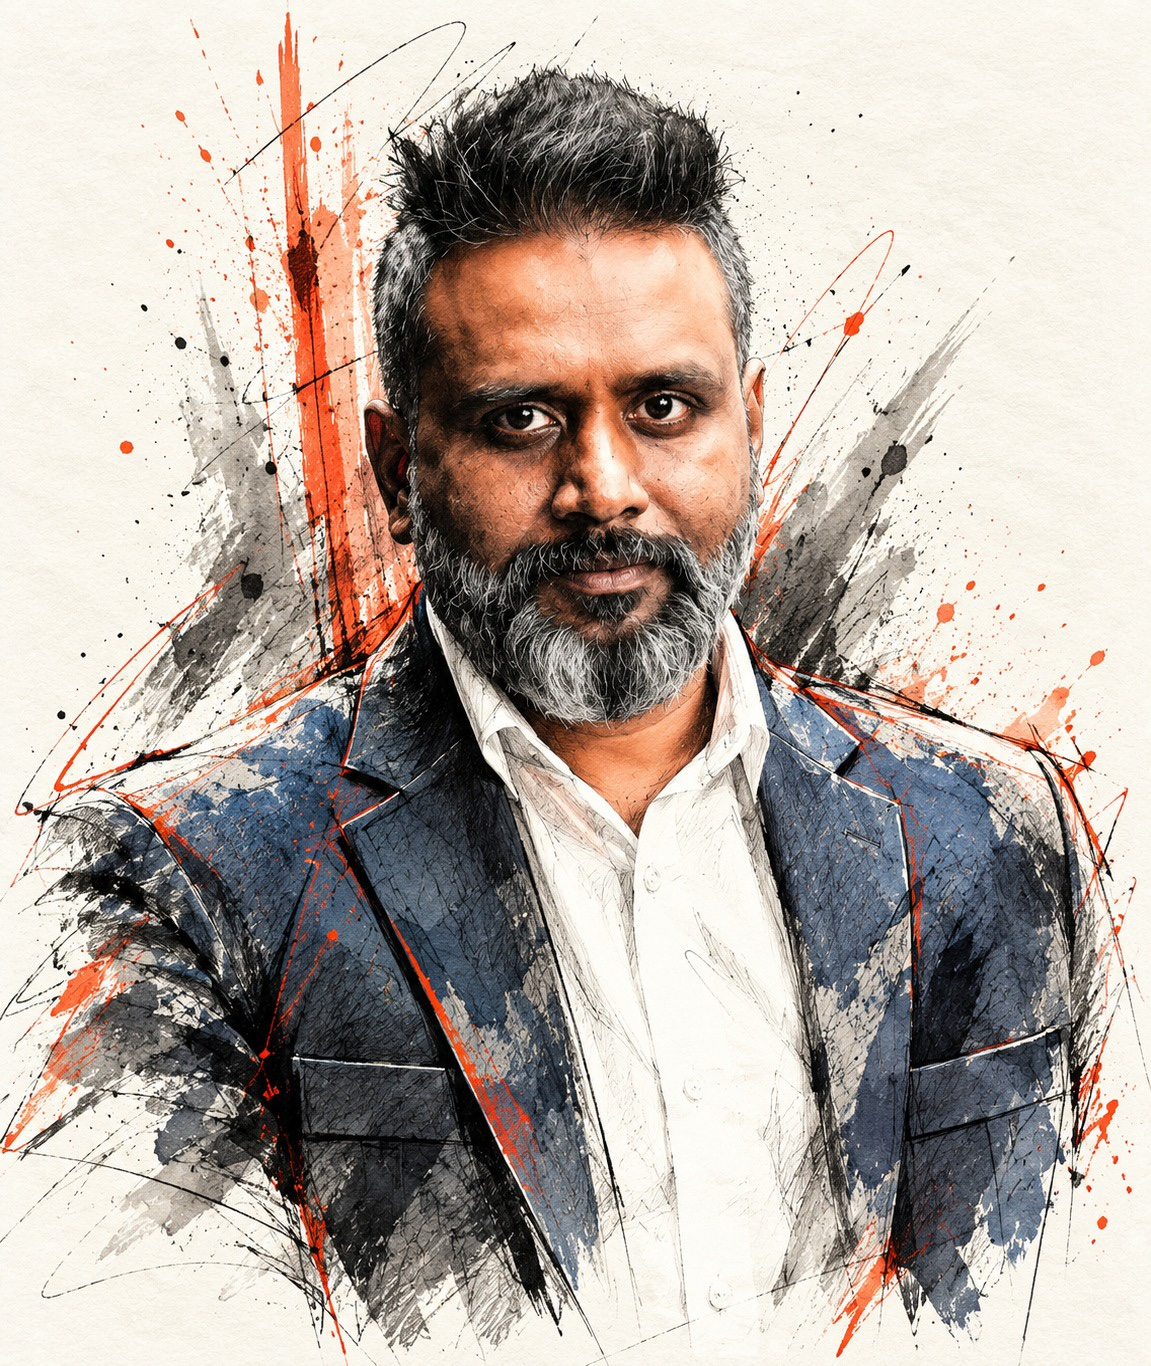
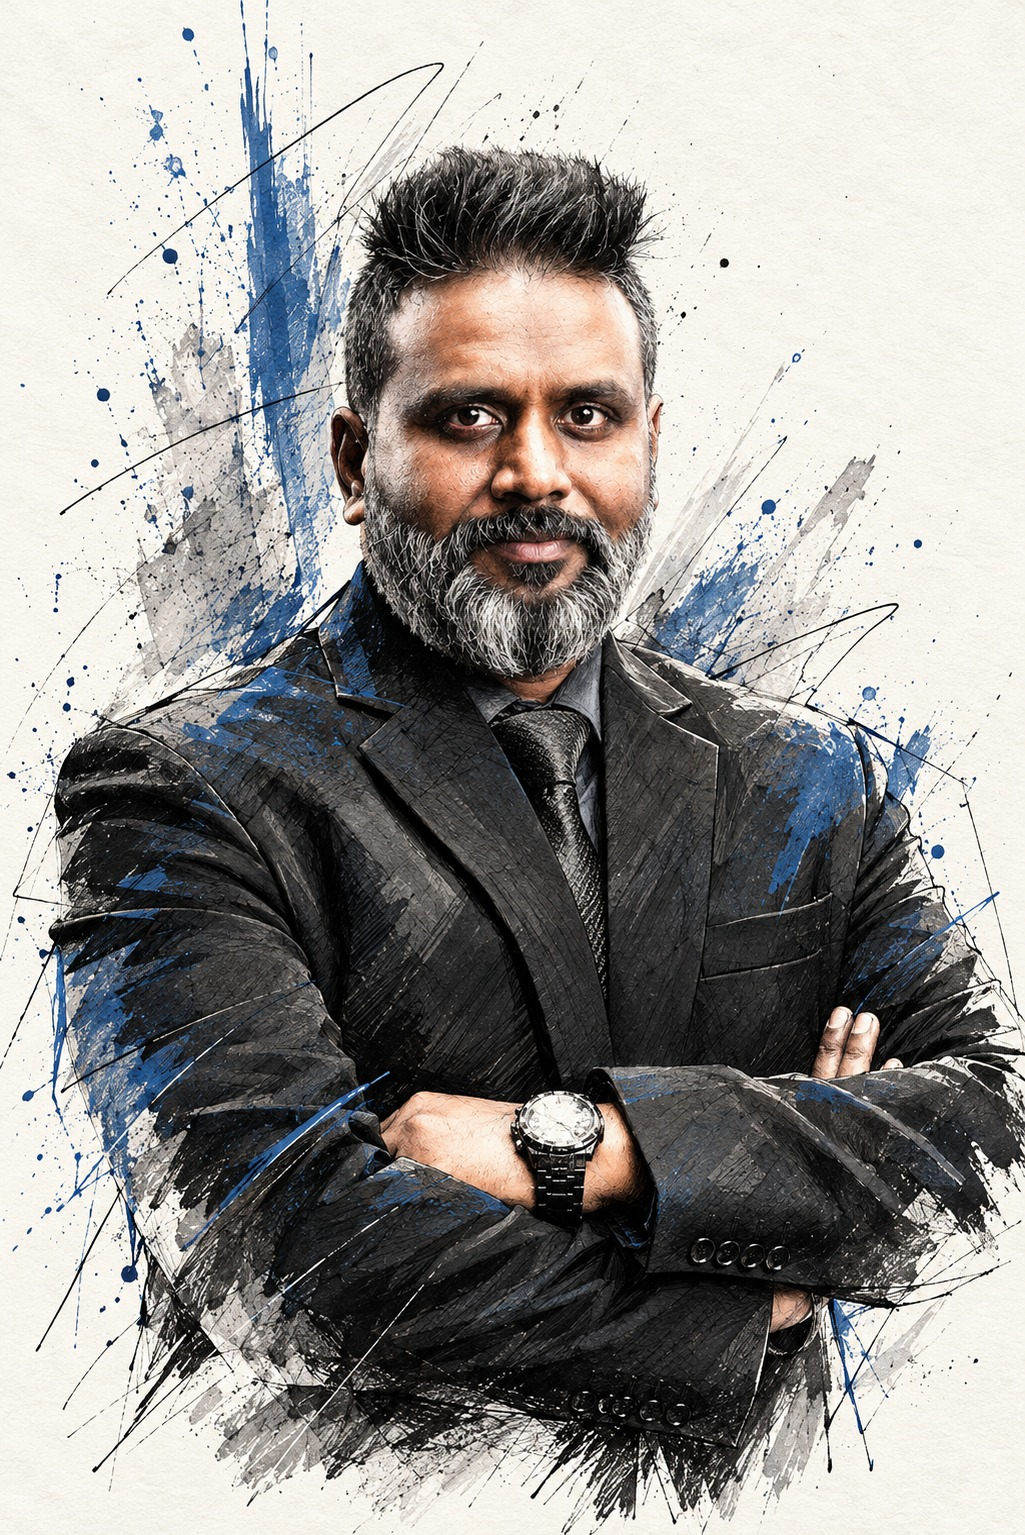
Update founder portraits, bios, and story

diff --git a/client/src/pages/OurStory.tsx b/client/src/pages/OurStory.tsx
@@ -6,25 +6,28 @@ const founders = [
     name: "Kiran Babu P.",
     role: "Founder",
     image: "kiran-babu-p-portrait.jpg",
-    imageAlt: "Kiran Babu P.",
+    imageAlt: "Portrait of Kiran Babu P.",
     initials: "KBP",
-    bio: ["A TEDx Speaker, life-skills coach and entrepreneur whose 27-year corporate career across India, the US and Europe helped shape the idea behind TYA Club."],
+    bio: [
+      "Kiran Babu P. is a TEDx speaker, life-skills coach and entrepreneur. His 27-year corporate career across India, the US and Europe helped shape the idea behind TYA Club.",
+      "After nearly a decade of research, observation and conversations across multiple cities, he founded TYA Club to help young adults become confident, independent and future-ready.",
+    ],
   },
   {
     name: "Anoop Jaju",
     role: "Co-founder",
-    imageAlt: "Portrait placeholder for Anoop Jaju.",
+    image: "anoop-jaju-portrait.jpeg",
+    imageAlt: "Portrait of Anoop Jaju.",
     initials: "AJ",
     bio: [
-      "Anoop Jaju is an Entrepreneur and Business Leader with an MBA from SP Jain Institute of Management and Research, Mumbai, and over 25 years of entrepreneurial experience. Anoop Jaju brings deep expertise in textile manufacturing, business management and diversification. He oversees a manufacturing operation producing 10 million metres of value-added fabrics annually, supported by a workforce of 200 people. His group’s diverse interests span textiles, recruitment, real estate and solar energy, with one of its companies listed on the NSE.",
-      "Beyond business, Anoop is passionate about building entrepreneurial communities and nurturing future-ready young adults. Through NIA Surat and TYA Club, he champions meaningful connections, business growth, collaboration and personal development.",
-      "His philosophy is simple—build businesses that create value, connections that create opportunities, and communities that inspire growth.",
+      "Anoop Jaju is an entrepreneur and business leader with an MBA from SP Jain Institute of Management and Research, Mumbai, and over 25 years of entrepreneurial experience. He brings deep expertise in textile manufacturing, business management and diversification, supported by a workforce of 200 people. His group’s diverse interests span textiles, recruitment, real estate and solar energy, with one of its companies listed on the NSE.",
     ],
   },
   {
     name: "Sreyansh Jain",
     role: "Co-founder",
-    imageAlt: "Portrait placeholder for Sreyansh Jain.",
+    image: "sreyansh-jain-portrait.jpeg",
+    imageAlt: "Portrait of Sreyansh Jain.",
     initials: "SJ",
     bio: [
       "Sreyansh Jain is an entrepreneur and growth strategist with an experience of over a decade transforming vision into reality through leadership, innovation, and disciplined execution.",
@@ -39,24 +42,22 @@ export default function OurStory() {
   const imageBase = `${import.meta.env.BASE_URL}images/`;
 
   return <PageShell>
-    <PageHero eyebrow="Our story" title="Where TYA began." intro="The idea was founded by Kiran Babu P, following nearly a decade of research, observation and conversations across multiple cities, exploring what young adults need..." />
+    <PageHero eyebrow="Our story" title="Where TYA began." intro="Kiran Babu P founded TYA Club after nearly a decade of research, observation and conversations across multiple cities, exploring what young adults need to become confident, independent and future-ready." />
 
     <section className="container story-narrative py-16 lg:py-24" aria-labelledby="our-story-title">
       <SectionIntro id="our-story-title" title={<>They meet. They question. They <span className="font-display italic headline-accent headline-accent--coral"><strong className="headline-impact">become.</strong></span></>} description="A room for the person they are becoming." />
-      <div className="story-narrative-copy mt-8 grid gap-6 text-lg leading-8 text-muted-copy lg:grid-cols-[1.1fr_.9fr] lg:gap-14">
+      <div className="story-narrative-copy mt-8 text-lg leading-8 text-muted-copy lg:mx-auto lg:max-w-3xl">
         <div className="space-y-5">
           <p>TYA Club was born from a simple question: What if young adults had a space to learn the things that classrooms often don't teach?</p>
-        </div>
-        <div className="space-y-5">
-          <p>Today, TYA is envisioned as a space where young adults don't simply learn from someone at the front of a room. They meet, interact, question, experiment, share, play, reflect and learn from one another.</p>
-          <p className="story-narrative-close">Because preparing young adults for the future isn't just about what they know. It's about who they become.</p>
+          <p>The concept was founded by Kiran Babu P, following nearly a decade of research, observation and conversations across multiple cities, exploring what young adults need... to become confident, independent and future-ready.</p>
+          <p>Anoop Jaju and Sreyansh Jain joined the journey, bringing fresh perspectives, energy and ideas to the concept. Together, they reimagined the idea and gave it a new identity — TYA Club: Transforming Young Adults.</p>
         </div>
       </div>
     </section>
 
     <section className="soft-panel founder-section py-16 lg:py-24" aria-labelledby="founders-title">
       <div className="container">
-        <SectionIntro eyebrow="Meet the founders" id="founders-title" title={<>The people behind <span className="font-display italic headline-accent headline-accent--coral"><strong className="headline-impact">the idea.</strong></span></>} description="Meet the founders whose experience and ideas shaped TYA Club and its focus on helping young adults grow." />
+        <SectionIntro eyebrow="Meet the founders" id="founders-title" title={<>The people behind <span className="font-display italic headline-accent headline-accent--coral"><strong className="headline-impact">the TYA CLUB.</strong></span></>} description="Meet the founders whose experience and ideas shaped TYA Club and its focus on helping young adults grow." />
 
         <div className="founder-grid mt-9" role="list" aria-label="Founder profiles">
           {founders.map((founder) => <article className="founder-profile" role="listitem" key={founder.name}>
